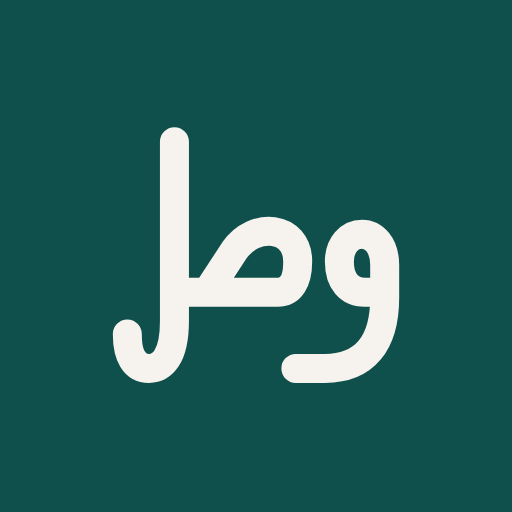
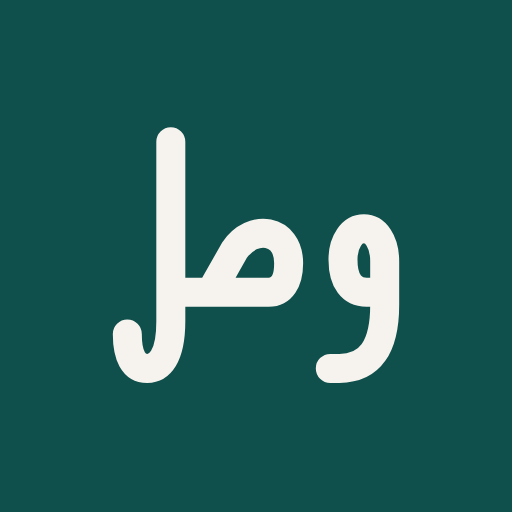
Brand mark: open up the gaps between و, ص and ل
The favicon read as squished. Narrow the ص bowl, keep the و tail clear of
the ص instead of tucking it under, and shrink the tile inset from 4.5 to
3.5 so the master draws larger at 24 and 32 px. The 16px drawing now puts
every 2px stroke centre on a whole pixel, leaving clean one-pixel columns
between ل and ص and between ص and و. Assets regenerated with
scripts/build-brand.tsx.

diff --git a/web/components/brand/mark.tsx b/web/components/brand/mark.tsx
@@ -13,26 +13,27 @@ export const BRAND = {
 
 /**
  * وصل ("connect", "link") in three strokes, redrawn from IBM Plex Sans Arabic's joined وصل as a single weight:
- * the ل with its ascender and descender bowl, the baseline running into the ص bowl, and the non-joining و whose tail
- * tucks under the ص. Condensed to fit the square; the ص tooth is dropped so the bowl stays open at small sizes.
+ * the ل with its ascender and descender bowl, the baseline running into a narrow ص bowl, and the non-joining و set
+ * apart with its tail kept clear of the ص. The ص tooth is dropped so the letters keep visible gaps at small sizes.
  */
 export const MASTER = {
   grid: 32,
   stroke: 3.2,
-  d: "M7 3.4V23.2C7 27.2 5.6 28.4 4.2 28.4C2.6 28.4 1.8 27 1.8 24.6M7 20H18.4C19.8 20 20.6 18.8 20.6 16.6C20.6 12.6 15.8 12.2 13.6 15.4L10.6 20M20.4 28.4H23.6C28 28.4 30.2 25.6 30.2 20.6V17C30.2 14.8 29 13.6 27.7 13.6C26.3 13.6 25.2 14.8 25.2 16.6C25.2 18.8 26.3 20 28 20H30.2",
+  d: "M6.6 3.4V23.2C6.6 27.2 5.3 28.4 4 28.4C2.5 28.4 1.8 27 1.8 24.6M6.6 20H17.4C18.8 20 19.6 18.8 19.6 16.8C19.6 13 15.6 12.4 13.6 15.4L11 20M24.2 28.4H25.2C28.6 28.4 30.2 26 30.2 21.4V16.6C30.2 14.4 29.2 13 27.9 13C26.6 13 25.6 14.4 25.6 16.4C25.6 18.8 26.6 20 28.2 20H30.2",
 } as const;
 
 /**
- * The 16px drawing: ل stem on x=4, baseline on y=11 and the و stem on x=14, so the 2px strokes land on whole pixels,
- * with a one-pixel gap between ل and ص and a one-pixel hole in the ص bowl. Already inset for the tile.
+ * The 16px drawing: every stroke centre sits on a whole pixel (ل stem x=4, ص sides x=7 and x=10, و x=13 to 14,
+ * baseline y=11), so the 2px strokes stay crisp, with clean one-pixel columns between ل and ص (x=5) and ص and و (x=11)
+ * and a one-pixel hole in the ص bowl. Already inset for the tile.
  */
 export const HINTED = {
   grid: 16,
   stroke: 2,
-  d: "M4 2.5V12.4C4 13.4 3.5 14 2.8 14C2.3 14 2 13.6 2 13V12M4 11H9C9.6 11 10 10.6 10 10V7.4C10 6.6 9.4 6 8.6 6H8.4C7.6 6 7 6.6 7 7.4V9.2L6.2 11M14 11H13.2C12.6 11 12.5 10.4 12.5 9.6V8.4C12.5 7.8 12.9 7.5 13.3 7.5C13.8 7.5 14 7.8 14 8.4V12.4C14 13.4 13.4 14 12.4 14H10.5",
+  d: "M4 2.5V12.5C4 13.6 3.4 14 2.8 14C2.3 14 2 13.6 2 13V12M4 11H9C9.6 11 10 10.6 10 10V7C10 6.4 9.6 6 9 6H8C7.4 6 7 6.4 7 7V11M14 11H13V8C13 7.6 13.2 7.4 13.5 7.4C13.8 7.4 14 7.6 14 8V12.6C14 13.5 13.6 14 12.8 14H12",
 } as const;
 
-const TILE_INSET = 4.5;
+const TILE_INSET = 3.5;
 const TILE_RX = { 32: 7.5, 16: 3.5 } as const;
 
 /**
